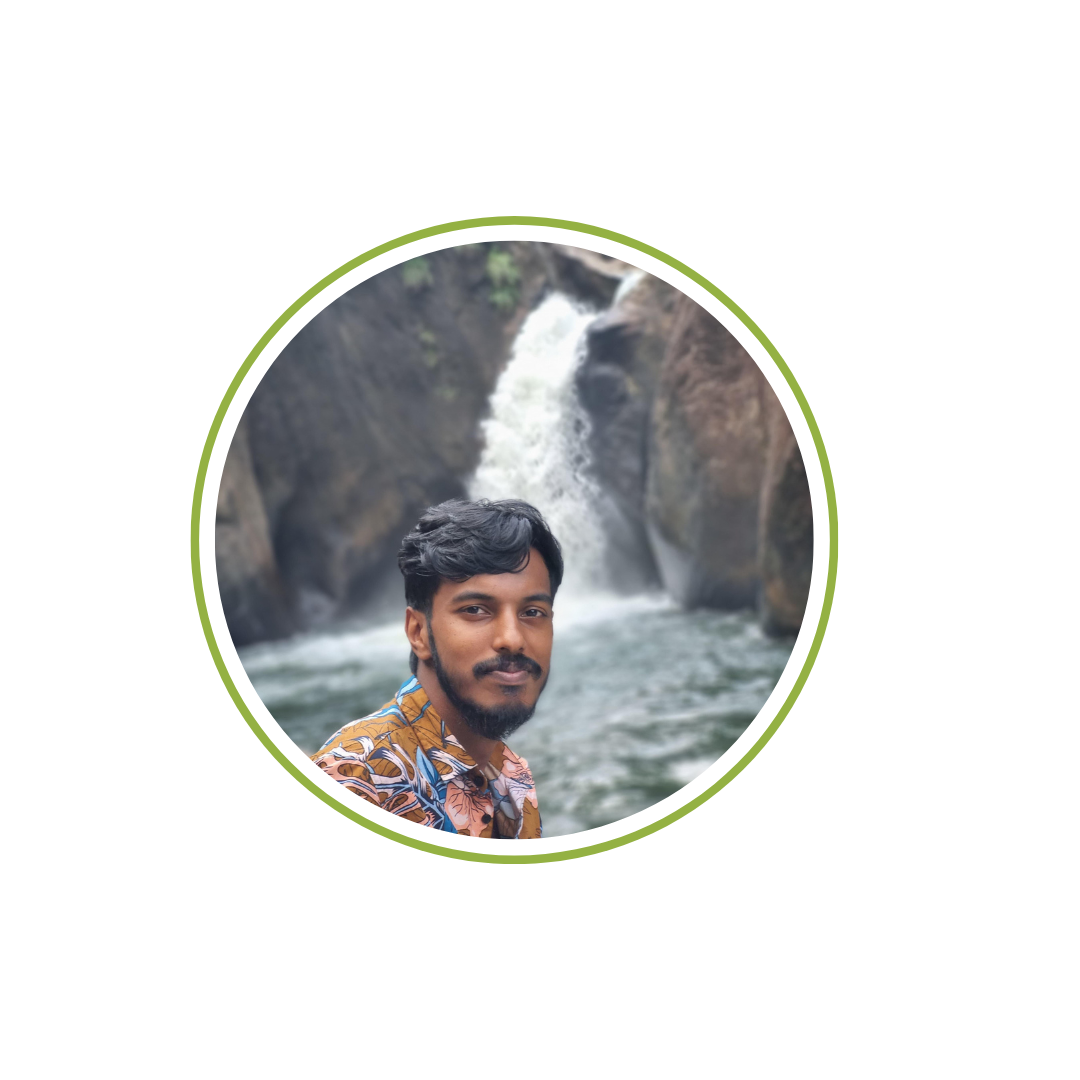
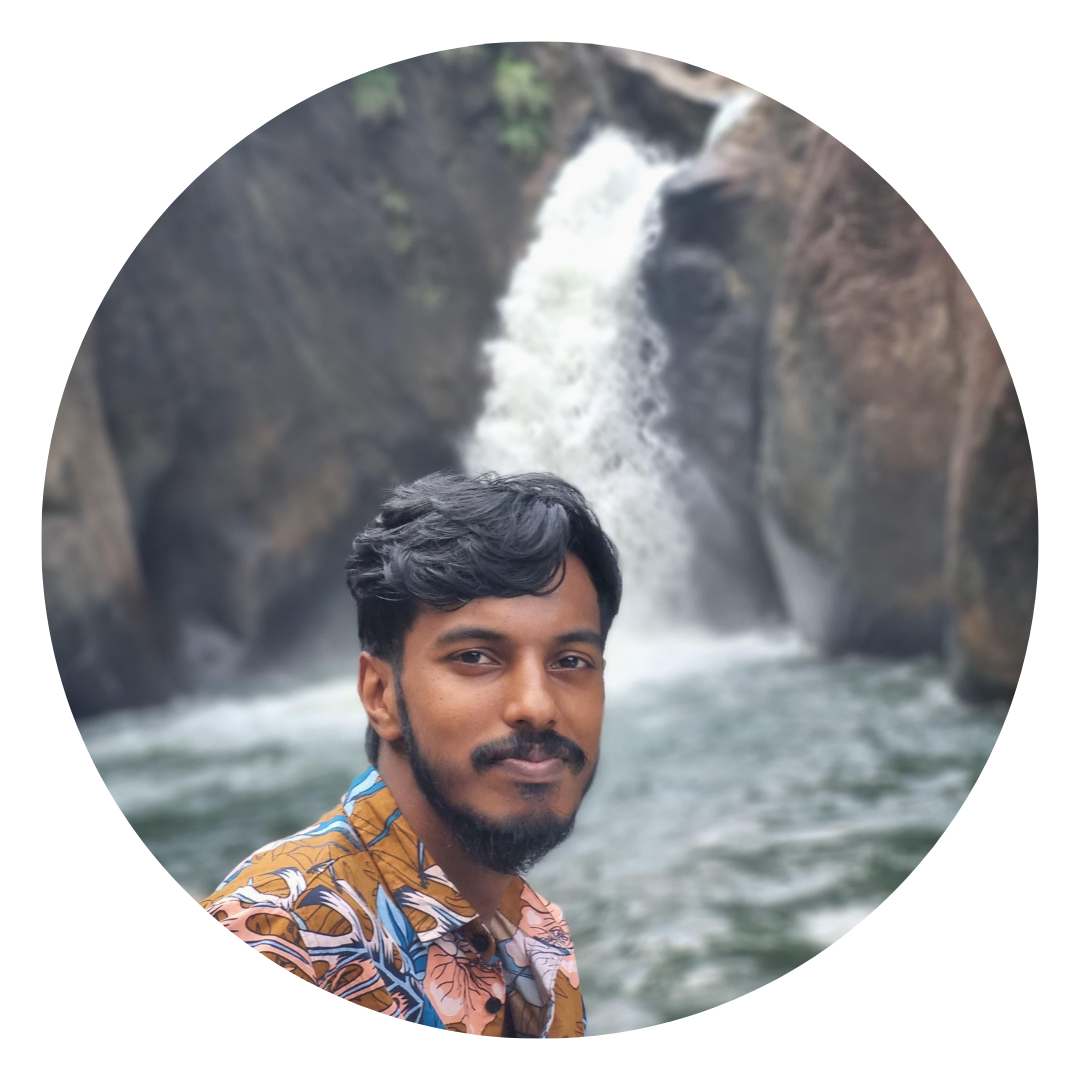
Adding About section

diff --git a/index.html b/index.html
@@ -70,6 +70,56 @@
           </div>
         </div>
       </section>
+      <section id="about">
+        <p class="section__text__p1">Get To Know More</p>
+        <h1 class="title">About Me</h1>
+        <div class="section-container">
+          <div class="section__pic-container">
+            <img
+              src="./assets/about-pic.jpg"
+              alt="Profile picture"
+              class="about-pic"
+            />
+          </div>
+          <div class="about-details-container">
+            <div class="about-containers">
+              <div class="details-container">
+                <img
+                  src="./assets/experience.png"
+                  alt="Experience icon"
+                  class="icon"
+                />
+                <h3>Experience</h3>
+                <p>3+ Projects <br />Frontend Development</p>
+              </div>
+              <div class="details-container">
+                <img
+                  src="./assets/education.png"
+                  alt="Education icon"
+                  class="icon"
+                />
+                <h3>Education</h3>
+                <p>B.Sc. Bachelors Degree in<br />Computing & Information System(R) </p>
+              </div>
+            </div>
+            <div class="text-container">
+              <p>
+                I am an undergraduate student with a strong passion for Full Stack Development and UI/UX design. 
+                With hands-on experience in multiple projects, I have developed a solid understanding of front-end 
+                and back-end technologies, as well as user-centered design principles. My expertise lies in building 
+                responsive, intuitive, and scalable applications that enhance user experiences. Continuously striving 
+                for innovation and excellence, I am eager to expand my skill set and contribute to impactful digital solutions.ga!
+              </p>
+            </div>
+          </div>
+        </div>
+        <img
+          src="./assets/arrow.png"
+          alt="Arrow icon"
+          class="icon arrow"
+          onclick="location.href='./#experience'"
+        />
+      </section>
     <script src="script.js"></script>
 </body>
 </html>

diff --git a/style.css b/style.css
@@ -260,3 +260,56 @@ section {
 .btn-container {
   gap: 1rem;
 }
+
+/* ABOUT SECTION */
+
+#about {
+  position: relative;
+}
+
+.about-containers {
+  gap: 2rem;
+  margin-bottom: 2rem;
+  margin-top: 2rem;
+}
+
+.about-details-container {
+  justify-content: center;
+  flex-direction: column;
+}
+
+.about-containers,
+.about-details-container {
+  display: flex;
+}
+
+.about-pic {
+  border-radius: 2rem;
+}
+
+.arrow {
+  position: absolute;
+  right: -5rem;
+  bottom: 2.5rem;
+}
+
+.details-container {
+  padding: 1.5rem;
+  flex: 1;
+  background: white;
+  border-radius: 2rem;
+  border: rgb(53, 53, 53) 0.1rem solid;
+  border-color: rgb(163, 163, 163);
+  text-align: center;
+}
+
+.section-container {
+  gap: 4rem;
+  height: 80%;
+}
+
+.section__pic-container {
+  height: 400px;
+  width: 400px;
+  margin: auto 0;
+}
